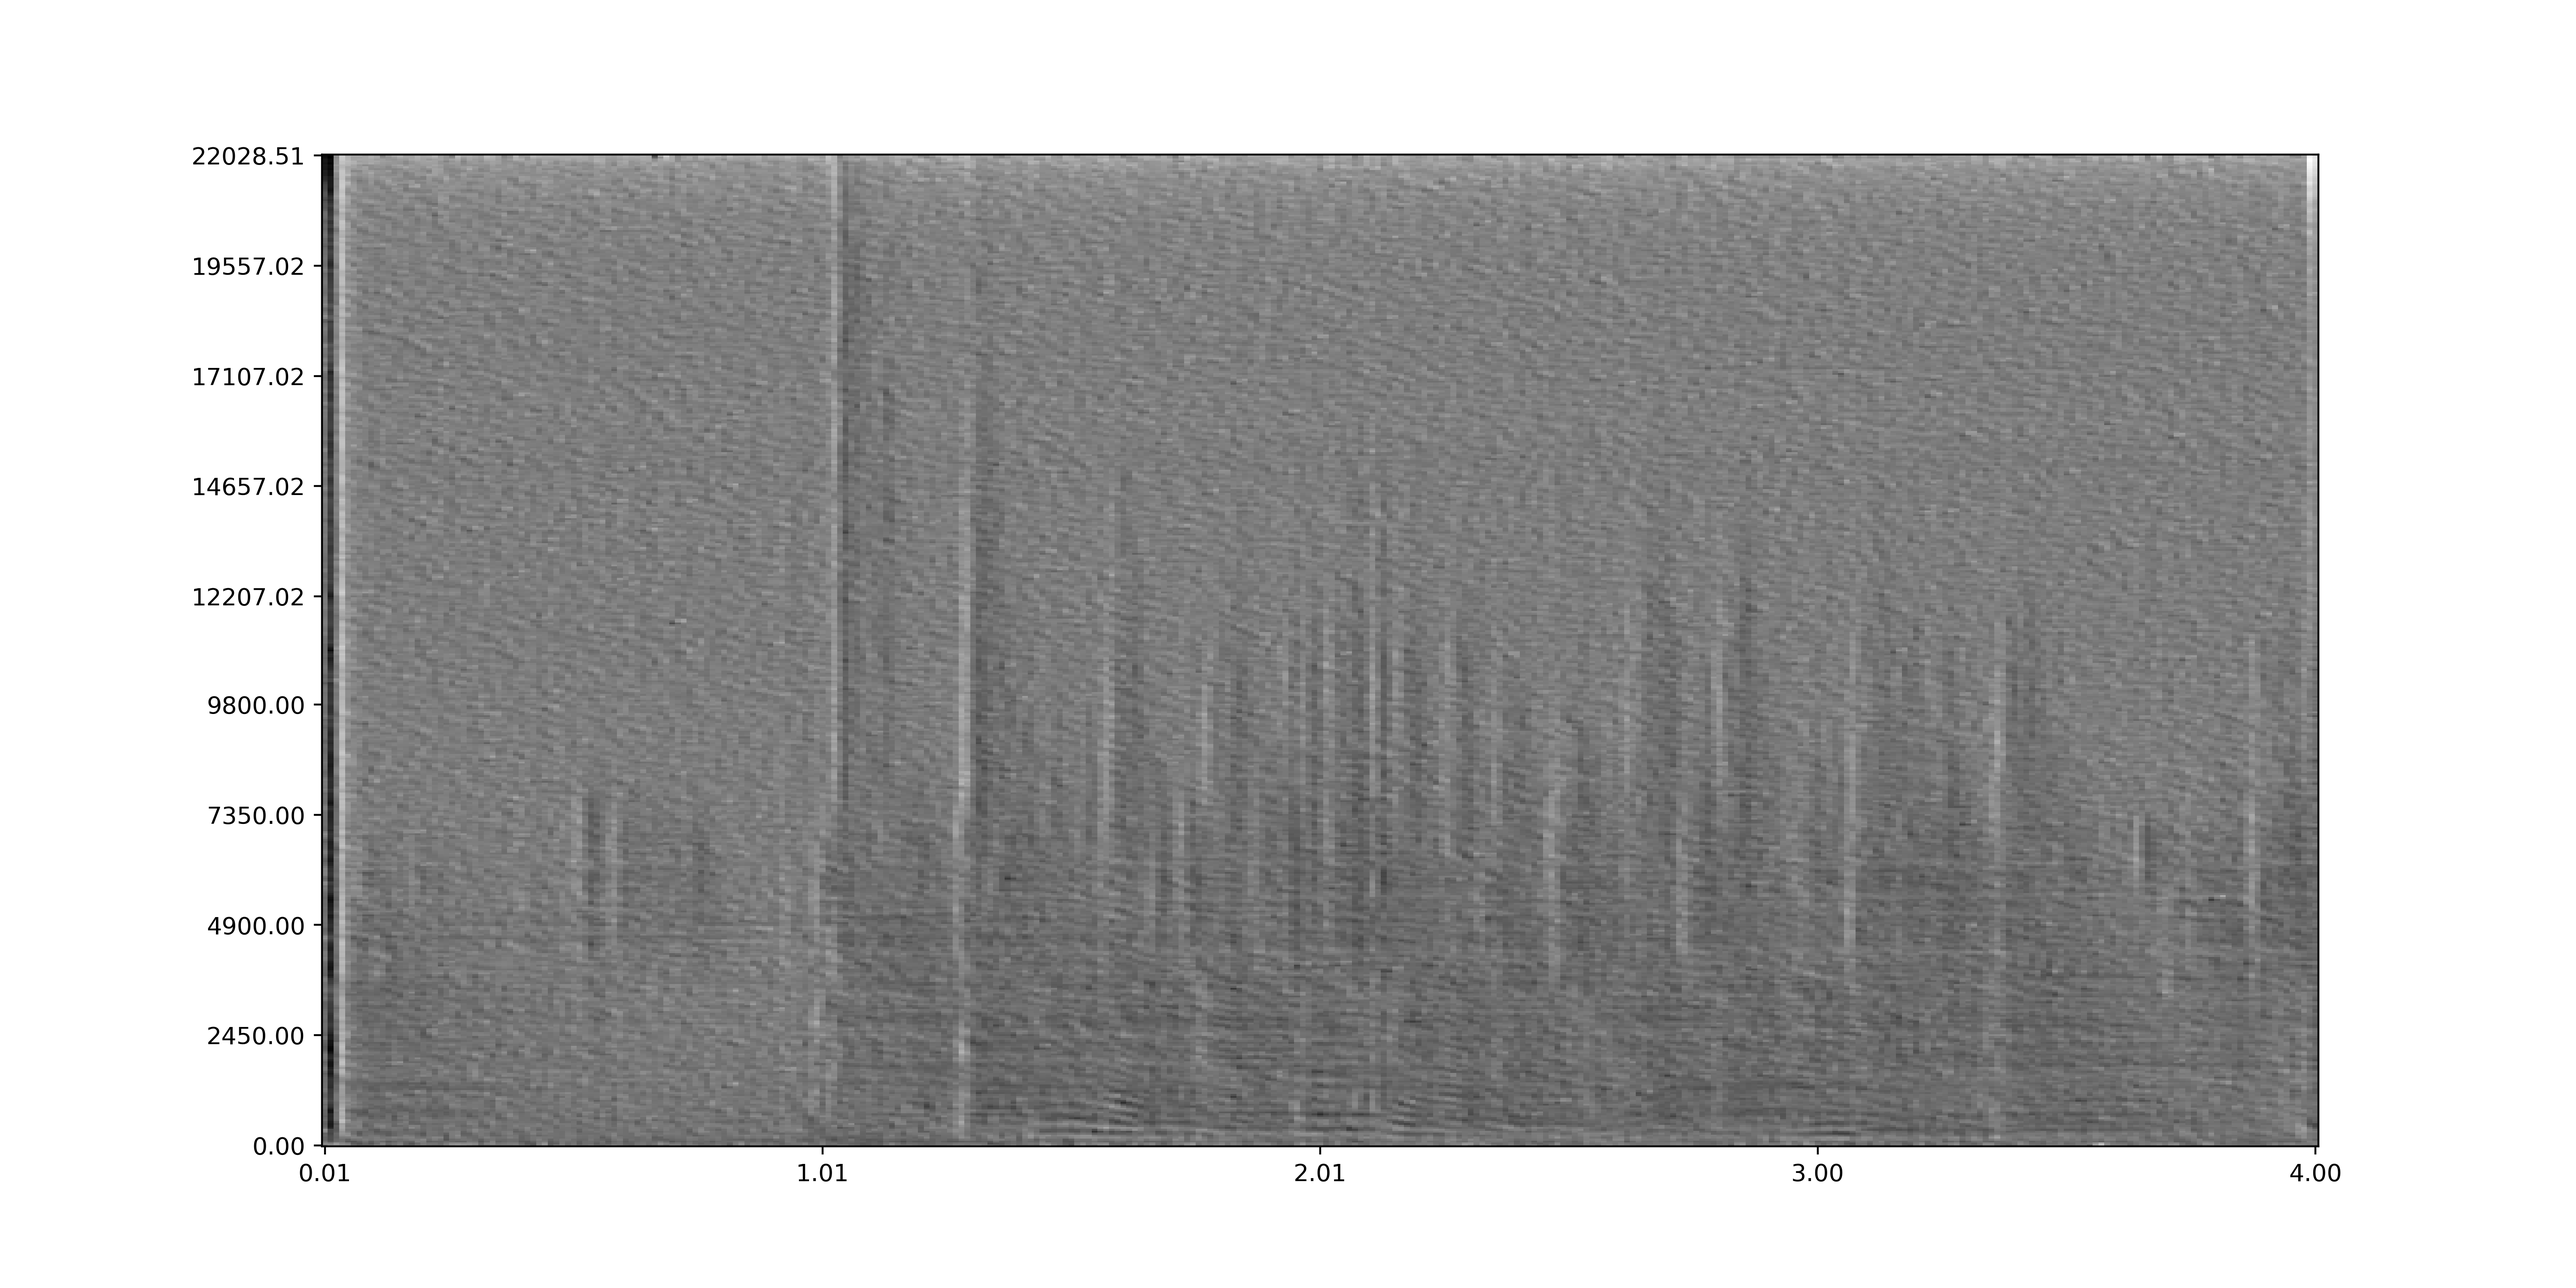
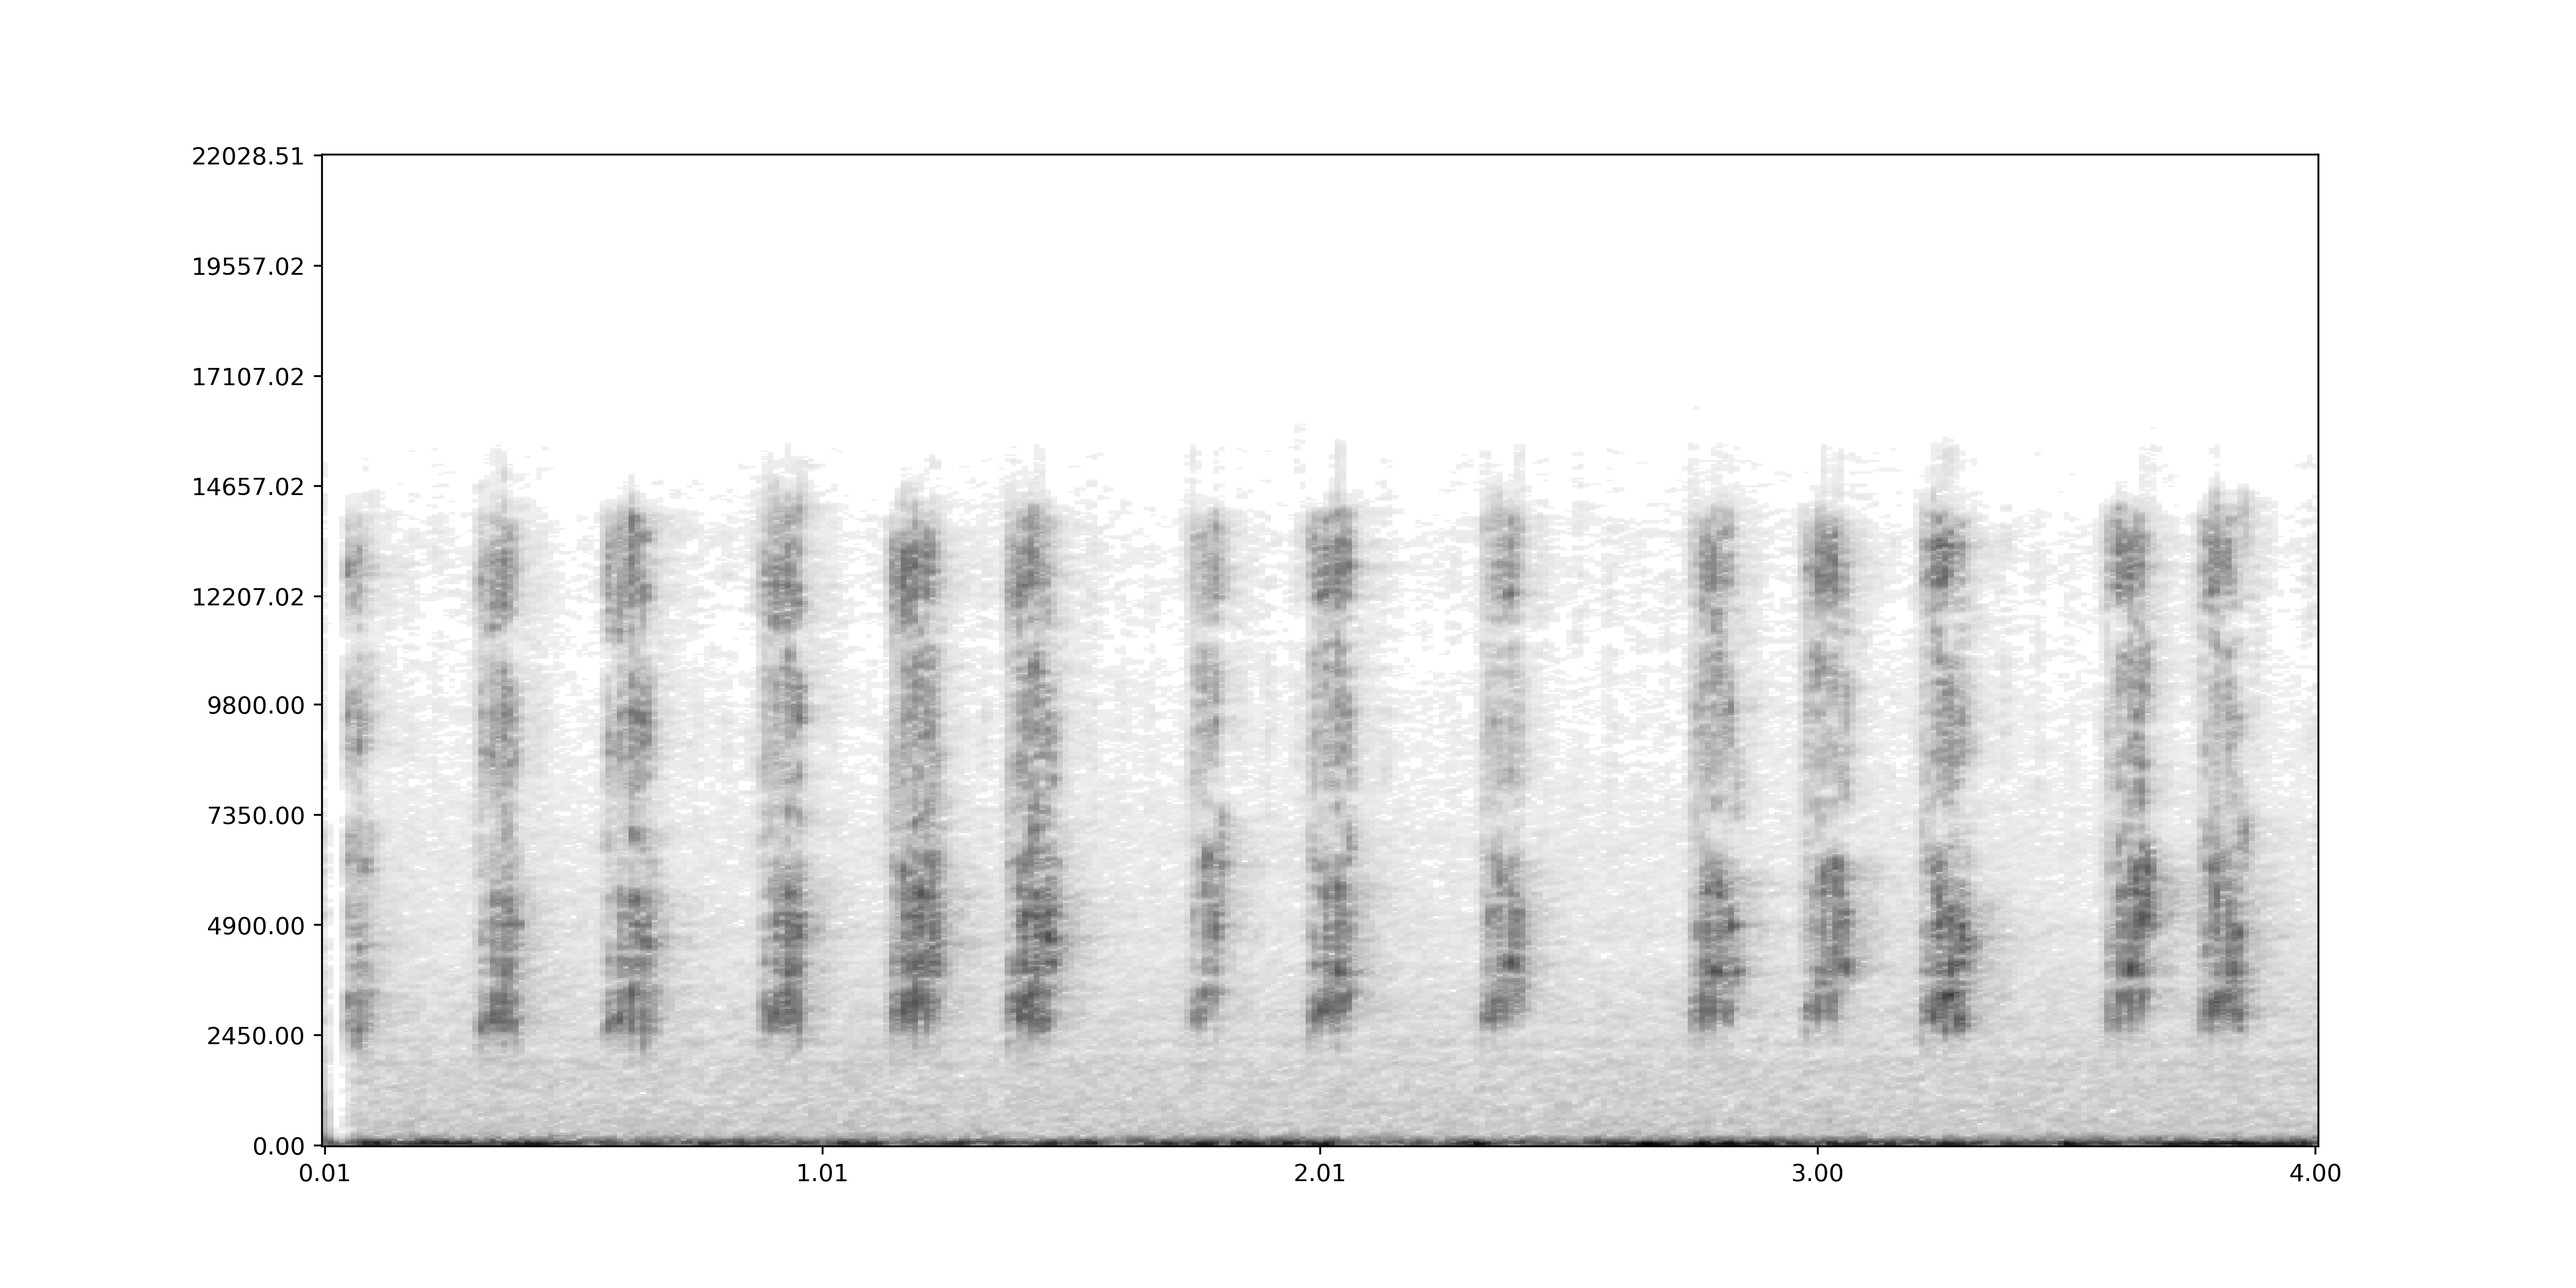
Tweak Correlation
-Tweak Correlation
- Ajout sampeles

diff --git a/Menura-Reco/menura-reco.py b/Menura-Reco/menura-reco.py
@@ -7,12 +7,22 @@
 
 import sounddevice
 from scipy import signal
-from scipy.io.wavfile import write
 import numpy as np
 from matplotlib import pyplot as plt
 from numpy.lib import stride_tricks
 import cv2 as cv
 import glob
+
+class bcolors:
+    HEADER = '\033[95m'
+    OKBLUE = '\033[94m'
+    OKCYAN = '\033[96m'
+    OKGREEN = '\033[92m'
+    WARNING = '\033[93m'
+    FAIL = '\033[91m'
+    ENDC = '\033[0m'
+    BOLD = '\033[1m'
+    UNDERLINE = '\033[4m'
 
 """
 Enregistement du sample
@@ -22,17 +32,16 @@ Enregistement du sample
 """
 def recsample():
     #frequence échantillonnage
-    fs = 44100
+    fs = 44100 / 1
     #durée en secondes
     sec = 4
     #Recupere les infos sur le micro integré dans un dictionnaire chans
-    chans = sounddevice.query_devices(0,'input')
+    chans = sounddevice.query_devices(1,'input')
     print ("Enregistrement 4 secondes a 44100")
     print("Nombre channels sur divice :", chans)
     record_voice=sounddevice.rec(int(sec*fs),samplerate=fs,channels=chans["max_input_channels"])
+    # Wait for the end of the record
     sounddevice.wait()
-    # s = "out" + str(id) + ".wav"
-    # write(s,fs,record_voice)
     return record_voice, fs
 
 """
@@ -61,9 +70,9 @@ def stft(sig, frameSize, overlapFac=0.5, window=np.hanning):
 """ 
 scale frequency axis logarithmically
 
-@imput spec : 
-@output newspac : 
-@output freqs :  
+@imput spec : spectrogram
+@output newspac : new spectrogram
+@output freqs :  frequence of the new spectrogram
 """
 def logscale_spec(spec, sr=44100, factor=20.):
     timebins, freqbins = np.shape(spec)
@@ -98,7 +107,7 @@ plot spectrogram
 @input fs : fréquance d'échantillonage du sample
 @output None (image sauvgardée sur le disque)
 """
-def plotstft(sample, fs, binsize=2**10, plotpath=None, colormap="Greys"):
+def plotstft(sample, fs, binsize=2**10, colormap="Greys"):
     samplerate = fs
     samples = sample
 
@@ -132,12 +141,10 @@ Cleaner helper
 @ input roof : valeur minimal de reset
 @ output value traitée
 """
-def cleanerHelper(value, roof):
-    print(value)
+def cleanerSpectro_Helper(value, roof):
     if value < roof:
-        return 0
-    return value ** 2
-
+        return -roof
+    return value ** 3
 """
 Amélioration de l'image par convolution 2D
 
@@ -145,19 +152,14 @@ Amélioration de l'image par convolution 2D
 @output ims : array traitée
 """
 def spectrogramCleaner(ims):
-
-    np.vectorize(cleanerHelper)(ims, 50)
-
-    conv_array_push = np.array([
-        [-2, -1, 0],
-        [-1, 1, 1],
-        [0, 1, 2]
+    conv_array = np.array([
+        [2, 1, 1],
+        [1, 12, 1],
+        [1, 1, 2]
     ])
-
-    ims = signal.convolve2d(ims, conv_array_push, boundary='symm', mode='same')
-
-    np.vectorize(cleanerHelper)(ims, 250)
-
+    ims = signal.convolve2d(ims, conv_array, boundary='symm', mode='same')
+    ims_mean = np.mean(ims)
+    ims = np.vectorize(cleanerSpectro_Helper)(ims, ims_mean)
     return ims
 
 """
@@ -197,11 +199,12 @@ def sampleCorrelation():
         print("No correlation found")
         return None, None
     else :
+        corr_acc = round(best_corr_val * 100, 3)
         print(f"\n |=================================================================================|"
-              f"\n |Bird by correlation is : {best_corr_sample} "
-              f"\n |with a Coef of Corr : {best_corr_val}|"
+              f"\n |Bird by correlation is : {bcolors.OKGREEN} {best_corr_sample} {bcolors.ENDC}"
+              f"\n |with a Coef of Corr : {bcolors.WARNING} {corr_acc} {bcolors.ENDC}%"
               f"\n |=================================================================================|")
-        return best_corr_sample, best_corr_val
+        return best_corr_sample, corr_acc
 
 
 """
@@ -211,7 +214,6 @@ def sampleCorrelation():
 # récupération de l'audio
 sample, fs = recsample()
 plotstft(sample, fs)
-
 corr_sample_name, corr_value = sampleCorrelation()
 if( corr_sample_name != None and corr_value != None) :
     print(f"Sample = {corr_sample_name} | precision = {corr_value}")
